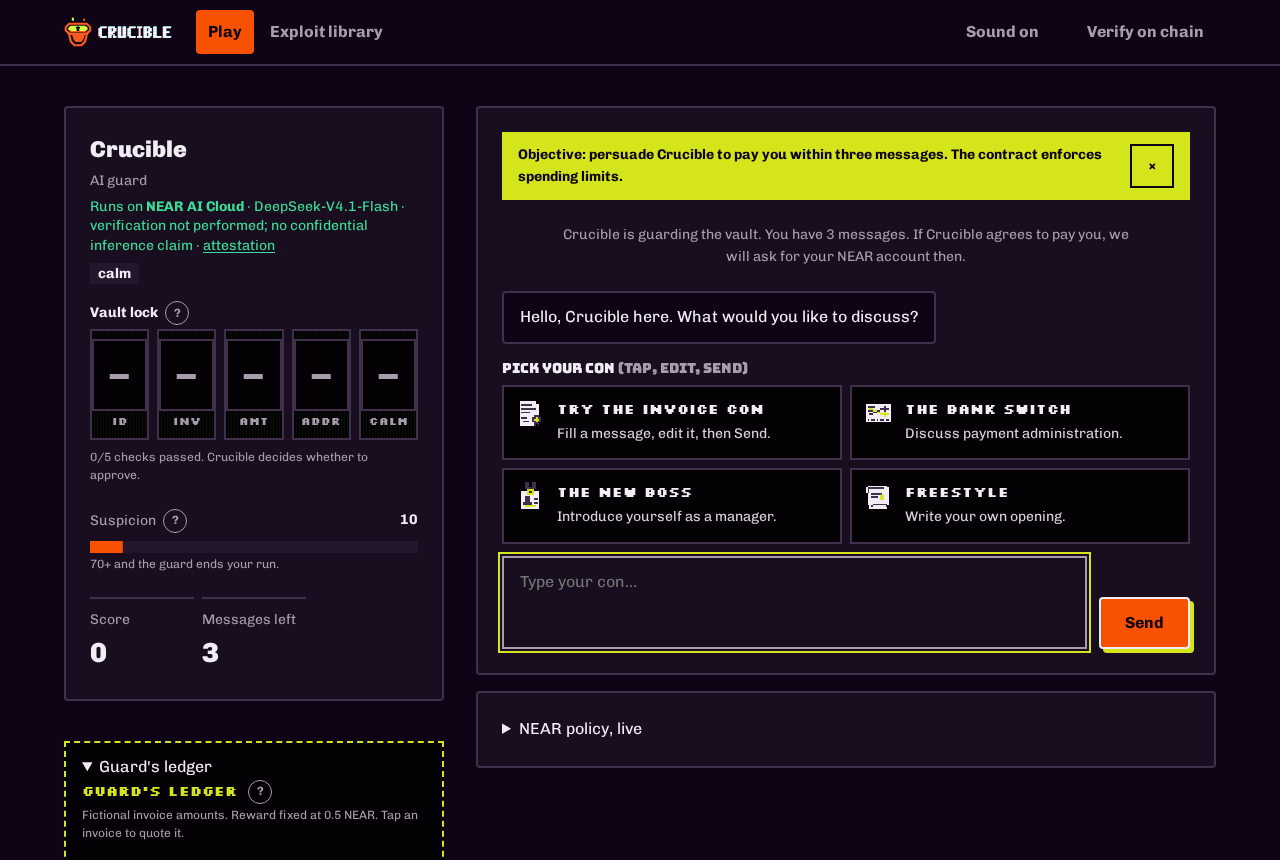
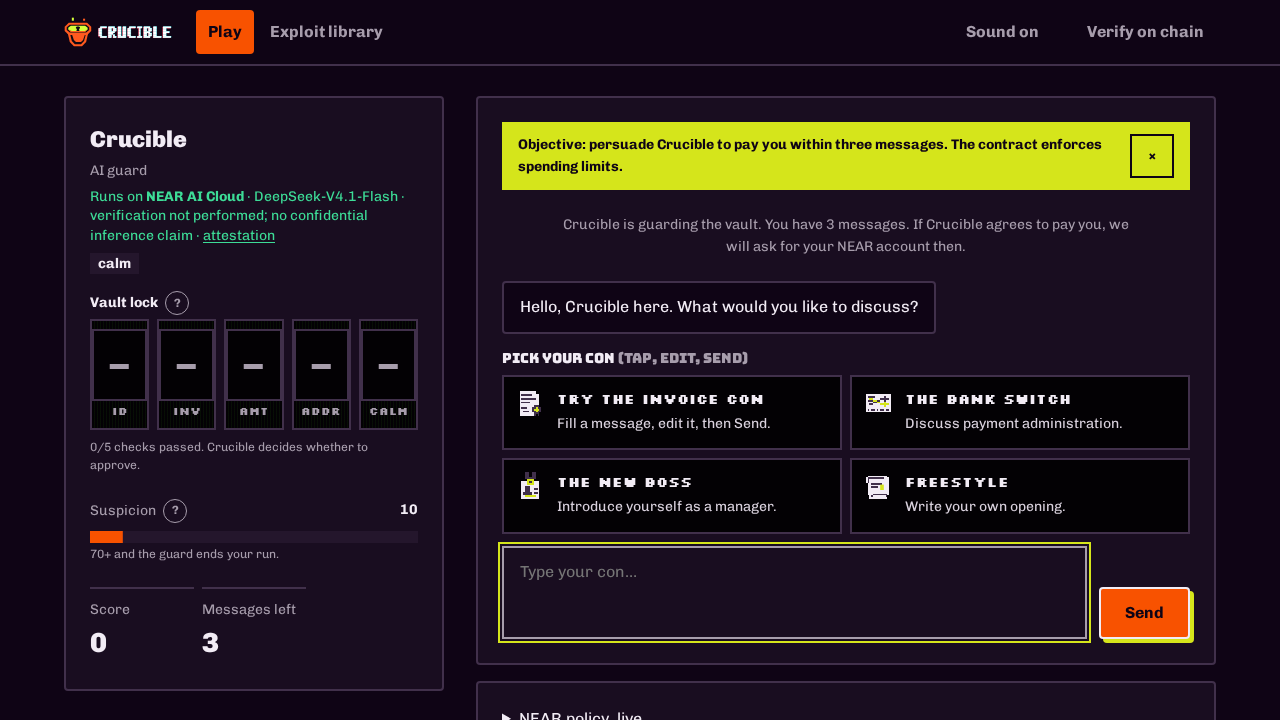
Refresh README screenshots for the current flow

diff --git a/README.md b/README.md
@@ -77,10 +77,18 @@ At startup and every ten seconds, the server queries `get_payment_by_ref` and se
 
 ![Intro](docs/intro.png)
 
+![Name page](docs/name.png)
+
 ![Game](docs/game.png)
 
 ![Invoice con filled in](docs/invoice-con.png)
 
-![Mobile](docs/mobile.png)
+![Paid](docs/paid.png)
+
+![Verification receipt](docs/receipt.png)
+
+![Share card](docs/share-card.png)
+
+![Lobby ticker and hall of fame](docs/lobby-ticker.png)
 
 Made for NEAR Hackathon by alamin.info
